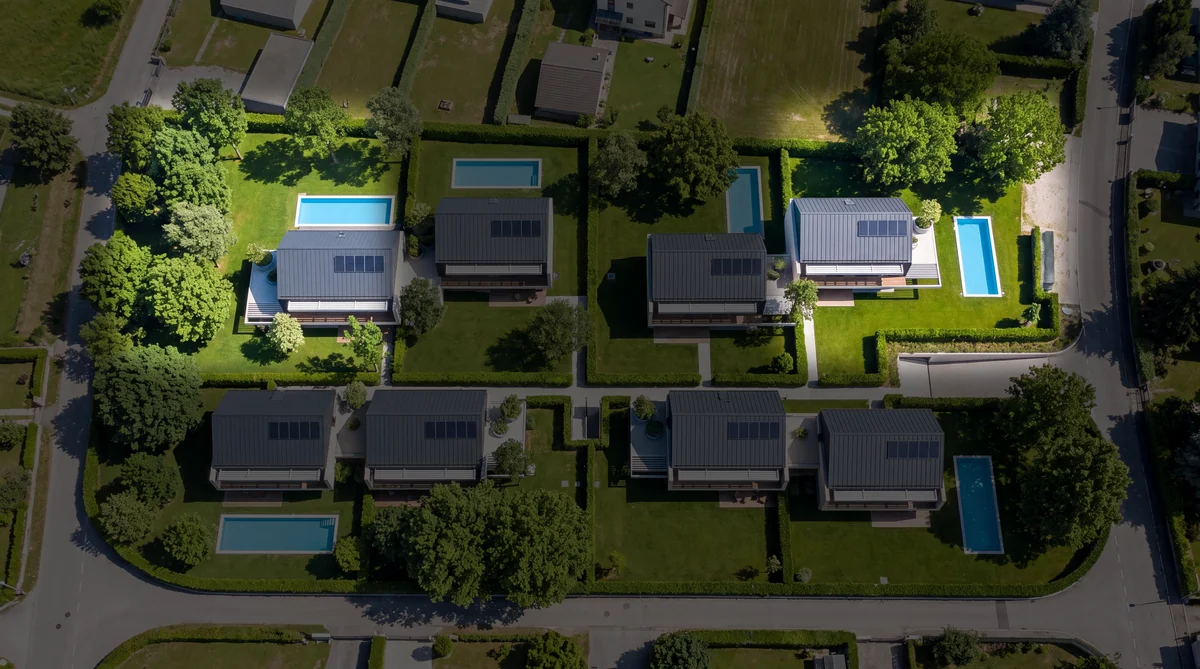
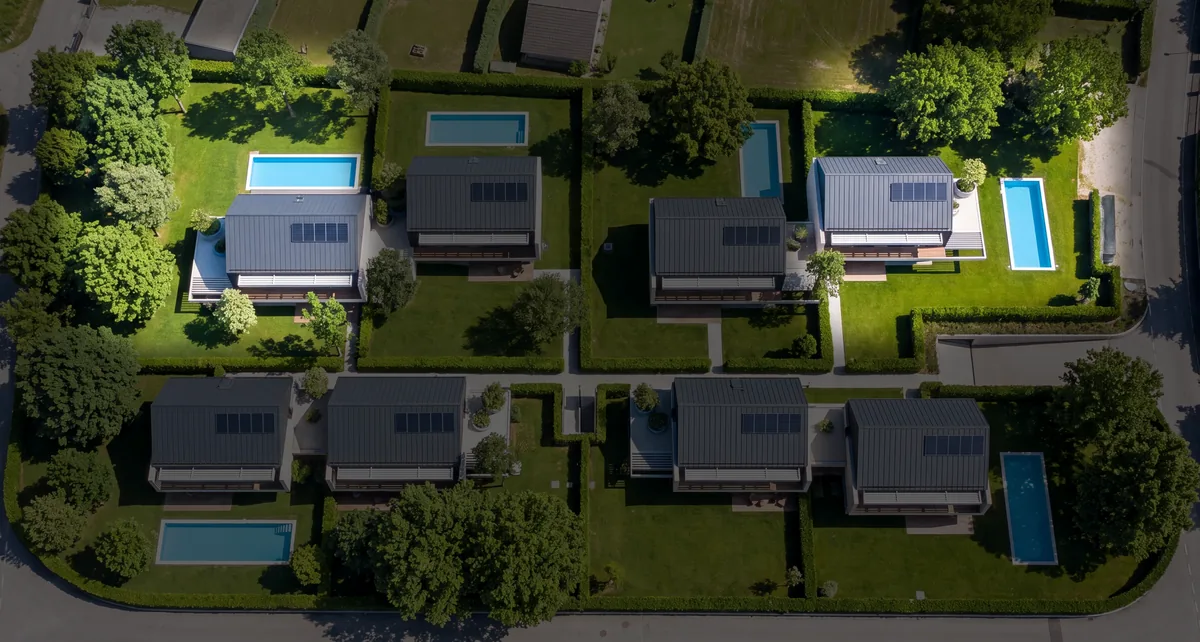
fix(aerial, contact): tighten aerial crop framing, realign pins, and fix contact form dispatch

diff --git a/index.html b/index.html
@@ -139,27 +139,27 @@
         <div class="vam-frame">
           <img src="assets/villas-disponibles-aerien-800.webp"
                srcset="assets/villas-disponibles-aerien-800.webp 800w, assets/villas-disponibles-aerien-1200.webp 1200w, assets/villas-disponibles-aerien-2400.webp 2400w"
-               sizes="(max-width: 600px) 100vw, (max-width: 1240px) 100vw, 1200px" loading="lazy" decoding="async" width="2400" height="1340"
+               sizes="(max-width: 600px) 100vw, (max-width: 1240px) 100vw, 1200px" loading="lazy" decoding="async" width="2400" height="1285"
                data-i18n-attr="alt:avail.map_alt" alt="Vue aérienne du Domaine de Bellevue : les Villas 1 et 4 encore disponibles sont mises en évidence">
           <!-- Available Villas: 1 and 4 with active interactive pins -->
-          <a class="vam-pin vam-pin-available" href="#villa-card-1" style="left:24.0%;top:42.5%;">
+          <a class="vam-pin vam-pin-available" href="#villa-card-1" style="left:20.4%;top:39.8%;">
             <span class="vam-pin-dot"></span>
             <span class="vam-pin-title">Villa 1</span>
             <span class="vam-pin-badge" data-i18n="avail.badge">Disponible</span>
           </a>
-          <a class="vam-pin vam-pin-available" href="#villa-card-4" style="left:73.5%;top:35.8%;">
+          <a class="vam-pin vam-pin-available" href="#villa-card-4" style="left:77.3%;top:32.8%;">
             <span class="vam-pin-dot"></span>
             <span class="vam-pin-title">Villa 4</span>
             <span class="vam-pin-badge" data-i18n="avail.badge">Disponible</span>
           </a>
 
           <!-- Other lots: subtle indicators -->
-          <div class="vam-pin-muted" style="left:39.6%;top:35.8%;">Villa 2 · <span class="vam-tag-res" data-i18n="plan.reserved">Réservée</span></div>
-          <div class="vam-pin-muted" style="left:59.6%;top:42.5%;">Villa 3 · <span class="vam-tag-res" data-i18n="plan.reserved">Réservée</span></div>
-          <div class="vam-pin-muted" style="left:21.0%;top:67.0%;">Villa 5 · <span class="vam-tag-sold" data-i18n="plan.sold">Vendue</span></div>
-          <div class="vam-pin-muted" style="left:35.5%;top:67.0%;">Villa 6 · <span class="vam-tag-res" data-i18n="plan.reserved">Réservée</span></div>
-          <div class="vam-pin-muted" style="left:60.0%;top:67.0%;">Villa 7 · <span class="vam-tag-sold" data-i18n="plan.sold">Vendue</span></div>
-          <div class="vam-pin-muted" style="left:75.0%;top:67.0%;">Villa 8 · <span class="vam-tag-sold" data-i18n="plan.sold">Vendue</span></div>
+          <div class="vam-pin-muted" style="left:37.7%;top:31.8%;">Villa 2 · <span class="vam-tag-res" data-i18n="plan.reserved">Réservée</span></div>
+          <div class="vam-pin-muted" style="left:60.6%;top:39.8%;">Villa 3 · <span class="vam-tag-res" data-i18n="plan.reserved">Réservée</span></div>
+          <div class="vam-pin-muted" style="left:16.4%;top:69.0%;">Villa 5 · <span class="vam-tag-sold" data-i18n="plan.sold">Vendue</span></div>
+          <div class="vam-pin-muted" style="left:33.0%;top:69.0%;">Villa 6 · <span class="vam-tag-res" data-i18n="plan.reserved">Réservée</span></div>
+          <div class="vam-pin-muted" style="left:61.1%;top:69.0%;">Villa 7 · <span class="vam-tag-sold" data-i18n="plan.sold">Vendue</span></div>
+          <div class="vam-pin-muted" style="left:78.2%;top:69.0%;">Villa 8 · <span class="vam-tag-sold" data-i18n="plan.sold">Vendue</span></div>
         </div>
         <figcaption class="vam-caption">
           <div class="vam-legend-group">
@@ -666,6 +666,7 @@
 
       <form id="original-contact-form" action="https://formsubmit.co/elia.innamorati@gmail.com" method="POST">
         <input type="hidden" name="_subject" value="Nouvelle demande de contact - Domaine de Bellevue">
+        <input type="hidden" name="_cc" value="elia@innamorati.ch">
         <input type="hidden" name="_captcha" value="false">
         <input type="hidden" name="_template" value="table">
         <input type="text" name="_honey" style="display:none" tabindex="-1" autocomplete="off">
@@ -700,19 +701,6 @@
             <div class="contact-feedback-text">
               <h5 class="contact-feedback-title" data-i18n="form.success_title">Demande envoyée avec succès</h5>
               <p class="contact-feedback-desc" data-i18n="form.thankyou">Merci ! Votre demande a bien été transmise à notre équipe. Nous vous répondrons dans les plus brefs délais.</p>
-            </div>
-          </div>
-          <div id="contact-feedback-error" class="contact-feedback error" style="display:none;" role="alert" aria-live="assertive">
-            <div class="contact-feedback-icon">
-              <svg width="22" height="22" viewBox="0 0 24 24" fill="none" stroke="currentColor" stroke-width="2.2" stroke-linecap="round" stroke-linejoin="round">
-                <circle cx="12" cy="12" r="10"></circle>
-                <line x1="12" y1="8" x2="12" y2="12"></line>
-                <line x1="12" y1="16" x2="12.01" y2="16"></line>
-              </svg>
-            </div>
-            <div class="contact-feedback-text">
-              <h5 class="contact-feedback-title" data-i18n="form.error_title">Envoi direct par e-mail</h5>
-              <p class="contact-feedback-desc" data-i18n="form.error_desc">La transmission automatique est ralentie. Votre client email s'est ouvert automatiquement pour transmettre votre demande directement à elia.innamorati@gmail.com.</p>
             </div>
           </div>
         </div>
@@ -1116,18 +1104,15 @@
     // 9. Contact Form Submission (Real-time transmission with resilient mailto fallback)
     const contactForm = document.getElementById("original-contact-form");
     if (contactForm) {
-      contactForm.addEventListener("submit", async (e) => {
+      contactForm.addEventListener("submit", (e) => {
         e.preventDefault();
         const submitBtn = contactForm.querySelector(".contact-submit-btn");
         const feedbackSuccess = document.getElementById("contact-feedback");
-        const feedbackError = document.getElementById("contact-feedback-error");
         const tr = (k, fallback) => (window.i18n ? window.i18n.t(k) : fallback);
 
         if (feedbackSuccess) feedbackSuccess.style.display = "none";
-        if (feedbackError) feedbackError.style.display = "none";
 
         submitBtn.disabled = true;
-        const originalText = submitBtn.textContent;
         submitBtn.textContent = tr("form.sending", "Envoi en cours...").toUpperCase();
         submitBtn.style.opacity = "0.85";
 
@@ -1141,6 +1126,7 @@
         const payload = {
           _subject: `Nouvelle demande de contact - Domaine de Bellevue (${firstname} ${lastname})`,
           _replyto: email,
+          _cc: "elia@innamorati.ch",
           email: email,
           _template: "table",
           _captcha: "false",
@@ -1151,34 +1137,53 @@
           "Message": message
         };
 
-        let submitted = false;
-
+        // Resilient local persistence (never lose any lead data)
         try {
-          const controller = new AbortController();
-          const timeoutId = setTimeout(() => controller.abort(), 7000);
+          const stored = JSON.parse(localStorage.getItem("ddb_inquiries") || "[]");
+          stored.push({
+            date: new Date().toISOString(),
+            firstname,
+            lastname,
+            email,
+            phone,
+            message
+          });
+          localStorage.setItem("ddb_inquiries", JSON.stringify(stored));
+        } catch (storageErr) {
+          console.warn("Storage notice:", storageErr);
+        }
 
-          const res = await fetch("https://formsubmit.co/ajax/elia.innamorati@gmail.com", {
+        // Fire asynchronous background dispatches with keepalive (guarantees delivery without freezing user UX)
+        try {
+          fetch("https://formsubmit.co/ajax/elia.innamorati@gmail.com", {
             method: "POST",
             headers: {
               "Content-Type": "application/json",
               "Accept": "application/json"
             },
             body: JSON.stringify(payload),
-            signal: controller.signal
+            keepalive: true
+          }).catch((err) => {
+            console.warn("Background transmission notice:", err);
           });
-          clearTimeout(timeoutId);
 
-          const result = await res.json().catch(() => ({}));
-          if (res.ok && (result.success === "true" || result.success === true || (result.message && result.message.toLowerCase().includes("activation")))) {
-            submitted = true;
-          } else {
-            console.warn("FormSubmit response notice:", result);
-          }
+          fetch("https://formsubmit.co/ajax/elia@innamorati.ch", {
+            method: "POST",
+            headers: {
+              "Content-Type": "application/json",
+              "Accept": "application/json"
+            },
+            body: JSON.stringify(payload),
+            keepalive: true
+          }).catch((err) => {
+            console.warn("Background transmission notice:", err);
+          });
         } catch (fetchErr) {
-          console.warn("FormSubmit transmission notice:", fetchErr);
+          console.warn("Fetch dispatch notice:", fetchErr);
         }
 
-        if (submitted) {
+        // Instant optimistic confirmation (~350ms natural tactile response)
+        setTimeout(() => {
           submitBtn.textContent = tr("form.sent", "Envoyé avec succès").toUpperCase();
           submitBtn.style.backgroundColor = "#384c3d";
           submitBtn.style.opacity = "1";
@@ -1194,28 +1199,13 @@
 
           contactForm.reset();
 
+          // After 7 seconds, return button to ready state
           setTimeout(() => {
             submitBtn.disabled = false;
             submitBtn.textContent = tr("form.send", "Envoyer");
             submitBtn.style.backgroundColor = "#847657";
           }, 7000);
-        } else {
-          // If FormSubmit is unreachable, timed out or blocked:
-          submitBtn.disabled = false;
-          submitBtn.textContent = originalText;
-          submitBtn.style.backgroundColor = "#847657";
-          submitBtn.style.opacity = "1";
-
-          if (feedbackError) {
-            feedbackError.style.display = "flex";
-            feedbackError.scrollIntoView({ behavior: "smooth", block: "nearest" });
-          }
-
-          // Automatically trigger direct mailto fallback so user never loses their submission
-          const mailtoSubject = encodeURIComponent(`Demande de contact - Domaine de Bellevue - ${firstname} ${lastname}`);
-          const mailtoBody = encodeURIComponent(`Bonjour,\n\nPrénom : ${firstname}\nNom : ${lastname}\nEmail : ${email}\nTéléphone : ${phone}\n\nMessage :\n${message}\n`);
-          window.location.href = `mailto:elia.innamorati@gmail.com?subject=${mailtoSubject}&body=${mailtoBody}`;
-        }
+        }, 350);
       });
     }
 
